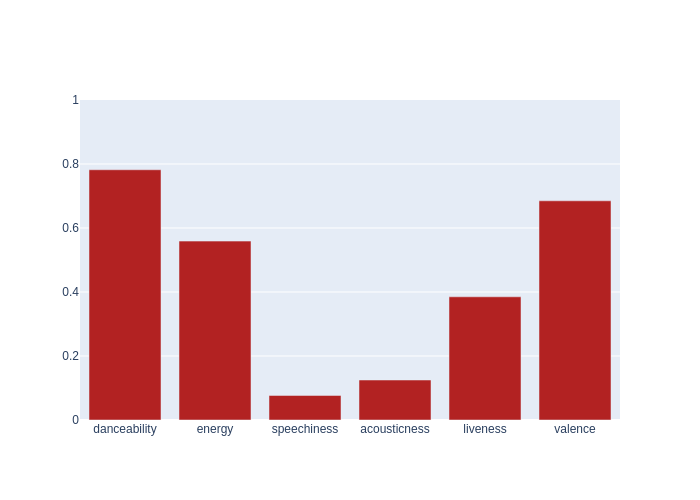
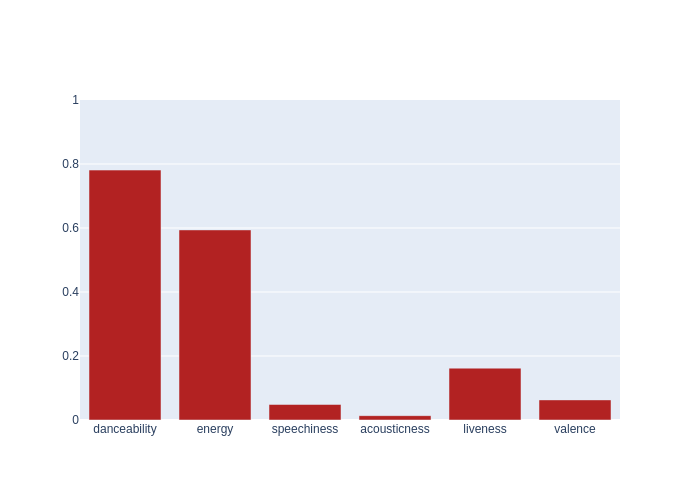
Automated README update

diff --git a/README.md b/README.md
@@ -4,7 +4,7 @@ Automated music metrics for fun, updated hourly.
 
 ## Spotify
 
-- currently listening to **blackbear - hot girl bummer**
+- currently listening to **Drake - What’s Next**
 
 - **3099** liked songs
 - **32** playlists
